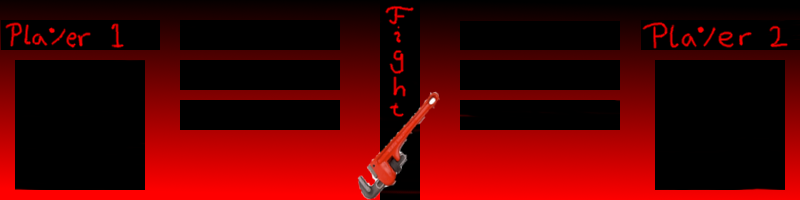
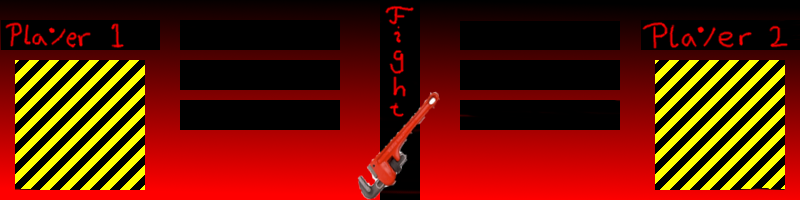
Hud uppdaterad
Fixat så att huden skalar med andra fönsterstorlekar som ändras i
menu.cpp.

Changed region(s): [[0.8125, 0.3, 1.0, 0.96], [0.0, 0.3, 0.1875, 0.96]]

diff --git a/graphic_engine.cpp b/graphic_engine.cpp
@@ -1,7 +1,8 @@
 #include "graphic_engine.h"
+#include <algorithm>    // std::max
 using namespace std;
 
-graphic_engine::graphic_engine()
+graphic_engine::graphic_engine(int win_height, int win_width)
 {
     //Kolla så SDL fungerar, initiera
     if (SDL_Init(SDL_INIT_VIDEO) != 0) {
@@ -9,8 +10,11 @@ graphic_engine::graphic_engine()
         exit(1);
     }
 
-    Window_width = 800;
-    Window_height = 800;
+    Window_height = win_height+200; // lägg till utrymme för huden
+    Window_width = win_width;
+    portrait_size = 0;
+
+
 
     //Skapa fönster
     Window = SDL_CreateWindow("Fightwrench", SDL_WINDOWPOS_UNDEFINED, SDL_WINDOWPOS_UNDEFINED, Window_width, Window_height,SDL_WINDOW_RESIZABLE);
@@ -24,8 +28,8 @@ graphic_engine::graphic_engine()
     create_texture("bullet","bullet.png");
     create_texture("grenade","grenade.png");
     create_texture("main_hud","wrenchhud.png");
-    create_texture("char_1", "Knapp1.png");
-    create_texture("char_2", "Knapp2.png");
+    create_texture("char_1", "Character1.png");
+    create_texture("char_2", "Character2.png");
     create_texture("health_bar", "health_bar.png");
     create_texture("ultimate_bar", "ultimate_bar.png");
     create_texture("characterbody","body.png");
@@ -42,6 +46,7 @@ void graphic_engine::create_texture(string texture_name, const char *texture_fil
 //för att smidigt kunna rita ut healthbars etc /marpe163
 void graphic_engine::draw_scaled_object(string name, double x_coord, double y_coord, double angle, double x_scale, double y_scale)
 {
+
     Current_rect.w = Image_map.at(name).Texture_width*x_scale;
     Current_rect.h = Image_map.at(name).Texture_height*y_scale;
     Current_rect.x = x_coord;
@@ -57,6 +62,17 @@ void graphic_engine::draw_object(string name,double x_coord,double y_coord, doub
     SDL_RenderCopyEx(Renderer, Image_map.at(name).Texture, nullptr, &Current_rect,angle,nullptr,SDL_FLIP_NONE);
 }
 
+void graphic_engine::draw_portrait(string name,double x_coord,double y_coord, double angle)
+{
+    portrait_size=std::min((int)130, (int) 130*Window_width/800);
+    Current_rect.w = portrait_size;
+
+    Current_rect.h = portrait_size;
+    Current_rect.x = x_coord - Current_rect.w/2;
+    Current_rect.y = y_coord - Current_rect.h/2;
+    SDL_RenderCopyEx(Renderer, Image_map.at(name).Texture, nullptr, &Current_rect,angle,nullptr,SDL_FLIP_NONE);
+}
+
 graphic_engine::~graphic_engine()
 {
     SDL_DestroyRenderer(Renderer);
@@ -66,6 +82,7 @@ graphic_engine::~graphic_engine()
     IMG_Quit();
     SDL_Quit();
 }
+
 
 void graphic_engine::draw_all(gamefield& my_gamefield)
 {
@@ -87,13 +104,13 @@ void graphic_engine::draw_all(gamefield& my_gamefield)
             draw_object(it->get_name(),it->get_xpos(),it->get_ypos(),it->get_direction());
         }
 
-        draw_object("main_hud",400,700,0);
-        draw_object("Axel", 65, 725,0);
-        draw_object("Marsus",735, 725,0);
-        draw_scaled_object("health_bar",180, 620,0 ,0.75,1);
-        draw_scaled_object("health_bar",460, 620,0 ,0.4,1);
-        draw_scaled_object("ultimate_bar",180, 660,0 ,0.60,1);
-        draw_scaled_object("ultimate_bar",460, 660,0 ,0.35,1);
+        draw_scaled_object("main_hud",0,Window_height - 200,0, (double) Window_width/800, 1);
+        draw_portrait("char_1", (int) 80*Window_width/800, (int) Window_height-75,0);
+        draw_portrait("char_2",(int) 720*Window_width/800, (int) Window_height-75,0);
+        draw_scaled_object("health_bar",(int)180*Window_width/800, (int) Window_height - 180,0 ,0.75,1);
+        draw_scaled_object("health_bar",(int)460*Window_width/800, (int) Window_height - 180,0 ,0.4,1);
+        draw_scaled_object("ultimate_bar",(int)180*Window_width/800, (int)Window_height-140,0 ,0.60,1);
+        draw_scaled_object("ultimate_bar",(int)460*Window_width/800, (int)Window_height-140,0 ,0.35,1);
 
 
 

diff --git a/graphic_engine.h b/graphic_engine.h
@@ -27,12 +27,14 @@ private:
     SDL_Renderer* Renderer;
     std::map<std::string,Texture_struct> Image_map;
     SDL_Rect Current_rect;
+    int portrait_size;
 
 public:
     ~graphic_engine();
-    graphic_engine();
+    graphic_engine(int win_height = 600, int win_width = 800);
     void draw_all(gamefield &my_gamefield);
     void draw_scaled_object(std::string name, double x_coord, double y_coord, double angle, double x_scale, double y_scale);
+    void draw_portrait(string name,double x_coord,double y_coord, double angle);
     void draw_object(string name,double x_coord,double y_coord, double angle);
     void create_texture(std::string texture_name, const char *texture_file);
 

diff --git a/game.cpp b/game.cpp
@@ -2,8 +2,9 @@
 #include <time.h>
 using namespace std;
 
-game::game(soundhandler& main_soundhandler)
+game::game(soundhandler& main_soundhandler, int window_height, int window_width):main_gamefield {window_height, window_width}, main_graphic_engine{window_height, window_width}
 {
+
     main_gamefield.add_character(marcus{100,100,67,main_gamefield.get_projectile_vector(),&main_soundhandler});
     main_gamefield.add_character(axel{700,500,30,main_gamefield.get_projectile_vector(),&main_soundhandler});
     main_gamefield.add_cover(standardcover(300,300,0,10,10,30));

diff --git a/main.cpp b/main.cpp
@@ -18,6 +18,7 @@ int main(int, char **)
 {
 
     soundhandler main_soundhandler;
+    main_soundhandler.playbgm();
     menu m(main_soundhandler);
     //game main_game;
     //main_game.game_loop();
@@ -42,7 +43,7 @@ int main(int, char **)
     SDL_Window* window = NULL;
 
     //The surface contained by the window
-    SDL_Surface* screenSurface = NULL;
+    SDL_Suriface* screenSurface = NULL;
 
     //Initialize SDL
     if( SDL_Init( SDL_INIT_VIDEO ) < 0 )

diff --git a/menu.cpp b/menu.cpp
@@ -127,7 +127,7 @@ void menu::mouse_clicked(const double x, const double y,soundhandler& main_sound
             SDL_DestroyTexture(Background);
             SDL_DestroyTexture(Button1);
             SDL_DestroyTexture(Button2);
-            game main_game(main_soundhandler);
+            game main_game(main_soundhandler, 800, 1500); // sätt in önskad fönsterstorlek
             main_game.game_loop();
             cout << "Button 2 clicked!";
         }

diff --git a/gamefield.h b/gamefield.h
@@ -14,6 +14,7 @@ class gamefield
     friend class graphic_engine;
 public:
     gamefield() = default;
+    gamefield(int win_height, int win_width):window_height{win_height}, window_width{win_width}{}
     gamefield(string map, string character_one, string character_two);
     void update();
     ~gamefield()=default;

diff --git a/game.h b/game.h
@@ -14,7 +14,7 @@
 class game
 {
 public:
-    game(soundhandler &main_soundhandler);
+    game(soundhandler &main_soundhandler, int window_height = 600, int window_width = 800);
     void main_update();
     void game_loop();
 
